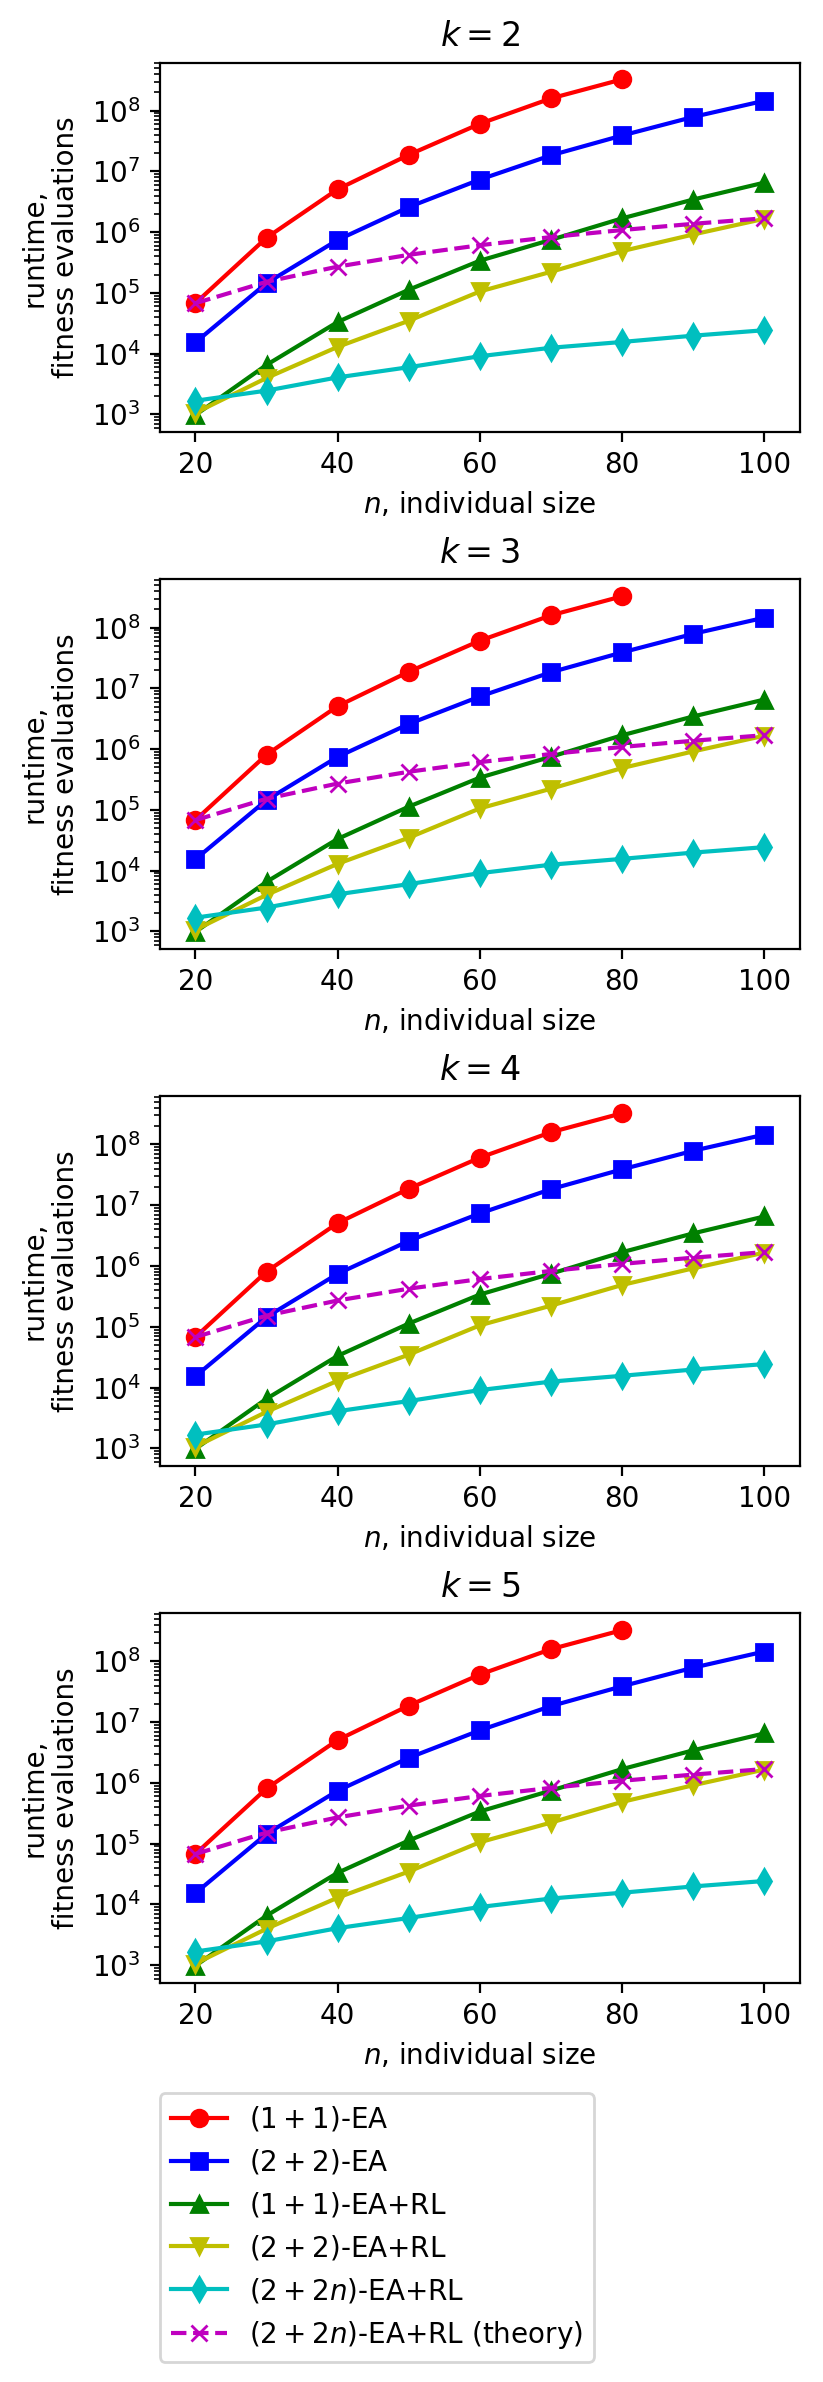
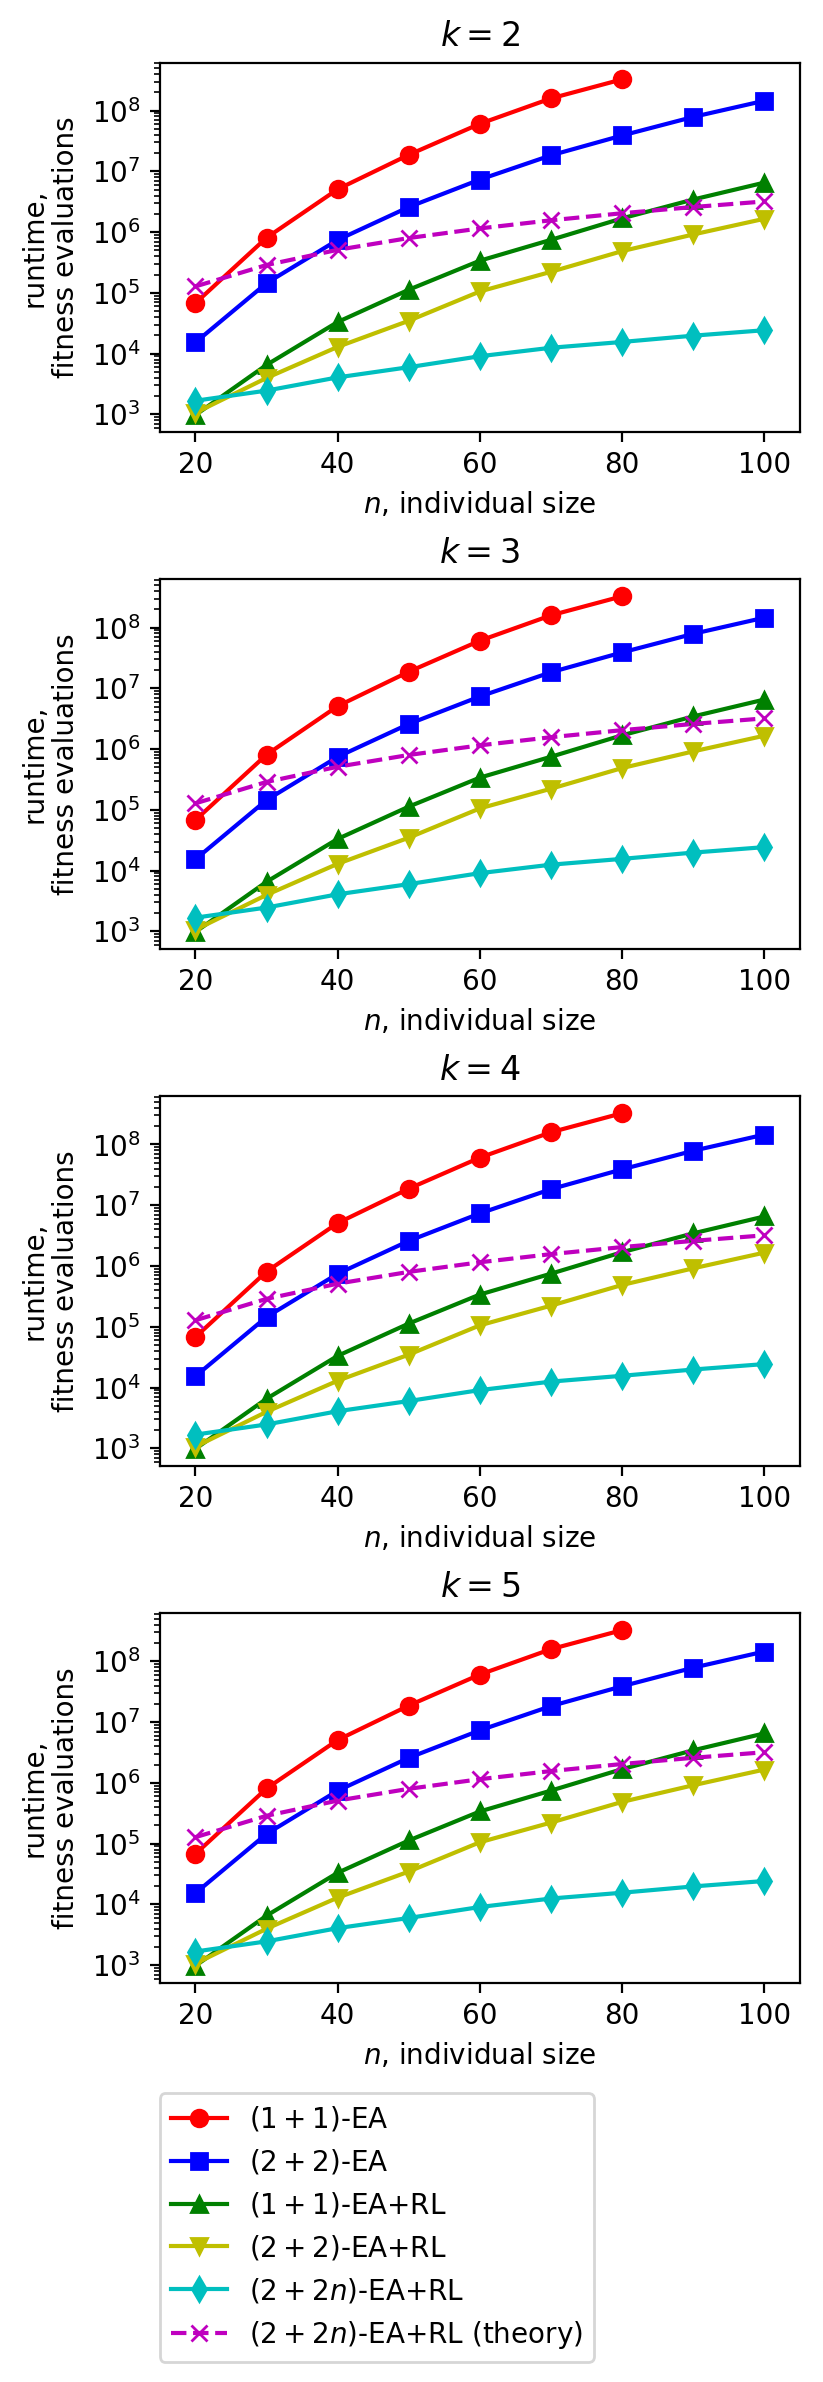
new plots for mean values

diff --git a/populational/plots_mean.py b/populational/plots_mean.py
@@ -29,8 +29,10 @@ with open('data/earl_2p2n_xdkom_merged.txt', 'r') as f:
 with open('data/earl_2p2n_xdkomzm_merged.txt', 'r') as f:
     earl_2p2n_xdkomzm = [[float(s) for s in line.split()] for line in f.readlines()]
 
-earl_2p2n_xdkom_theory = [[((2 * e / (e - 1)) ** k / (2 * k) + 1) * n for n in range(20, 101, 10)] for k in range(2, 7)]
-earl_2p2n_xdkomzm_theory = [[((3 * e / (e - 1)) ** k / (2 * k) + 1) * n for n in range(20, 101, 10)] for k in range(2, 7)]
+earl_2p2n_xdkom_theory = [[n / k * (e / (e - 1) + (2 * e / (e - 1)) ** k / 2 + k + 450) for n in range(20, 101, 10)] for k in range(2, 7)]
+    #[[((2 * e / (e - 1)) ** k / (2 * k) + 1) * n for n in range(20, 101, 10)] for k in range(2, 7)]
+earl_2p2n_xdkomzm_theory = [[n / k * (5 * e / (3 * (e - 1)) + (3 ** k + 2 ** k) * (e / (e - 1)) ** k / 2 + 2 * k + 900) for n in range(20, 101, 10)] for k in range(2, 7)]
+    #[[((3 * e / (e - 1)) ** k / (2 * k) + 1) * n for n in range(20, 101, 10)] for k in range(2, 7)]
 
 n_range = list(range(20, 101, 10))
 
@@ -64,15 +66,15 @@ plt.semilogy(n_range, list(map(lambda x, y: 2 * x * y, earl_2p2n_xdkomzm[-1], n_
 plt.semilogy(n_range, list(map(lambda x, y: 2 * x * y, earl_2p2n_xdkomzm_theory[-1], n_range)), 'mx--', 
              label='$(2 + 2n)$-EA+RL (theory)')
 plt.xlabel('$n$, individual size')
-plt.ylabel('runtime,\nfitness evaluations')
+plt.ylabel('runtime, fitness\nevaluations')
 plt.title('XdivK+OneMax+ZeroMax')
 plt.xlim(15, 105)
 
 plt.subplots_adjust(wspace=0.4,
                     hspace=0.4,
                     left=0,
-                    right=0.9,
-                    top=0.4,
+                    right=0.8,
+                    top=0.27,
                     bottom=0)
 
 plt.savefig('pic/means.png',
